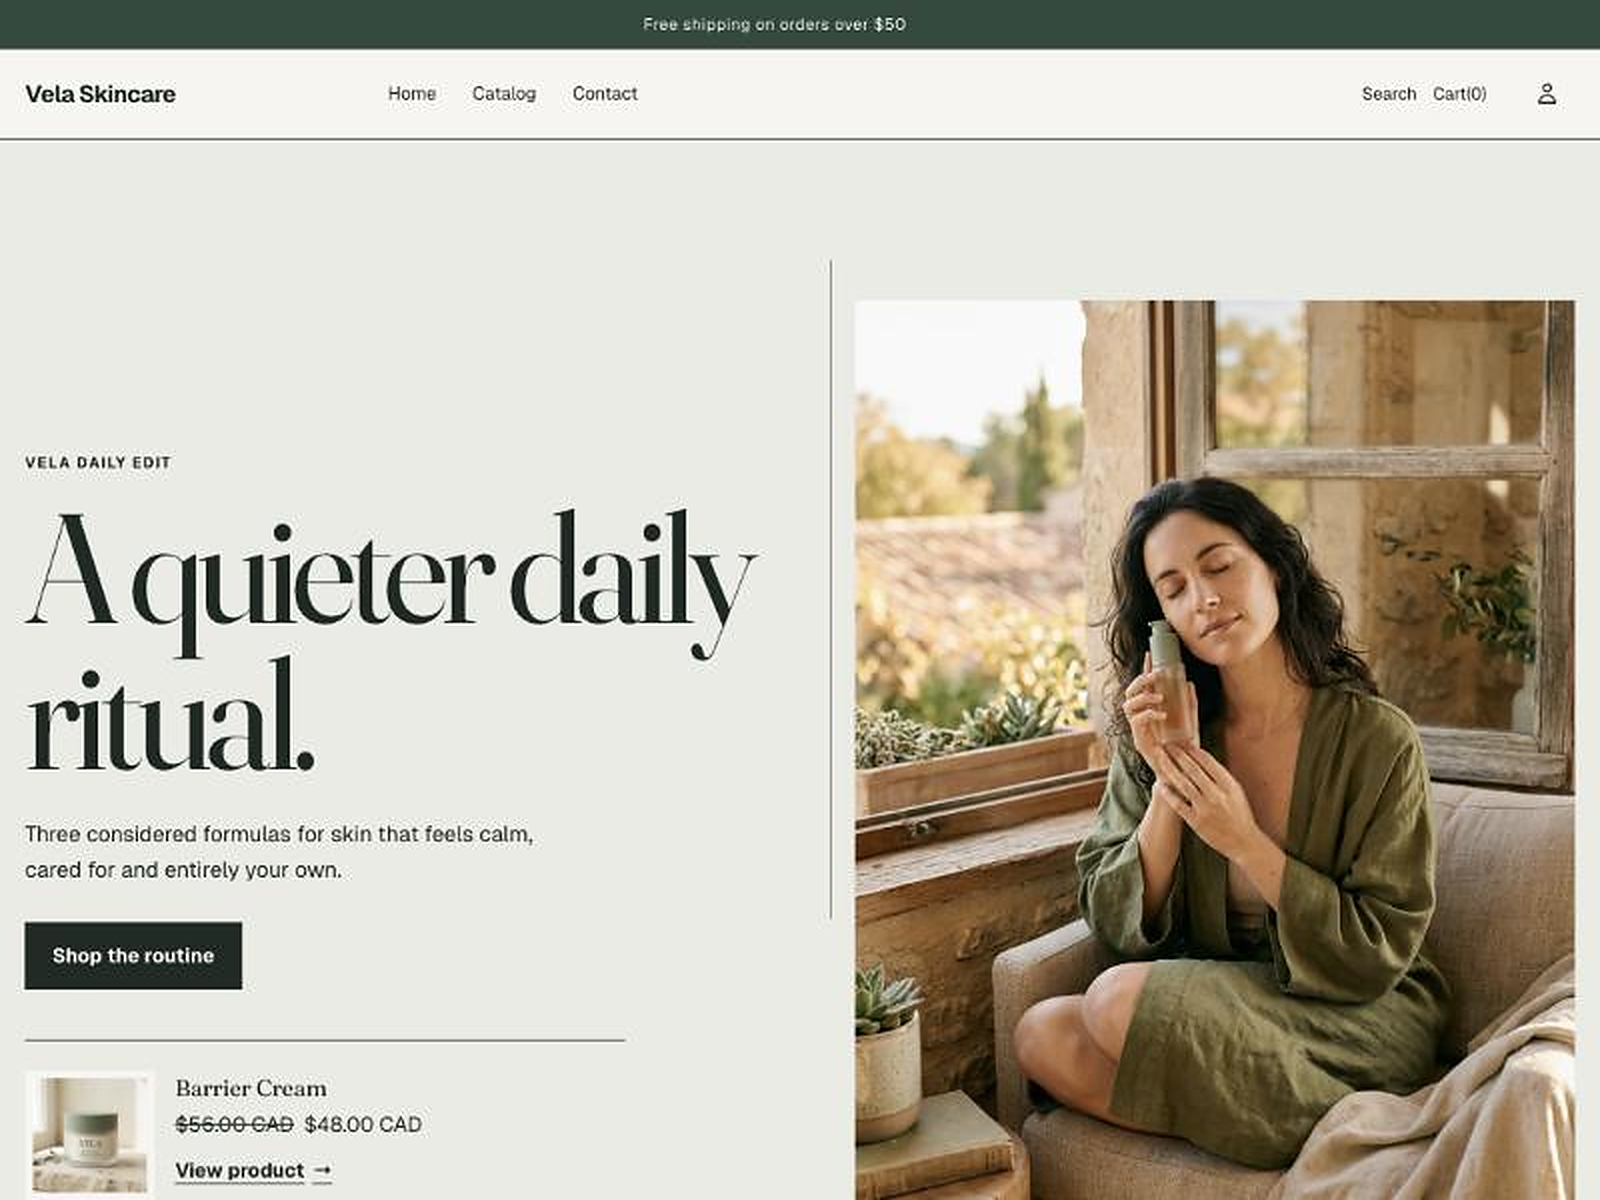
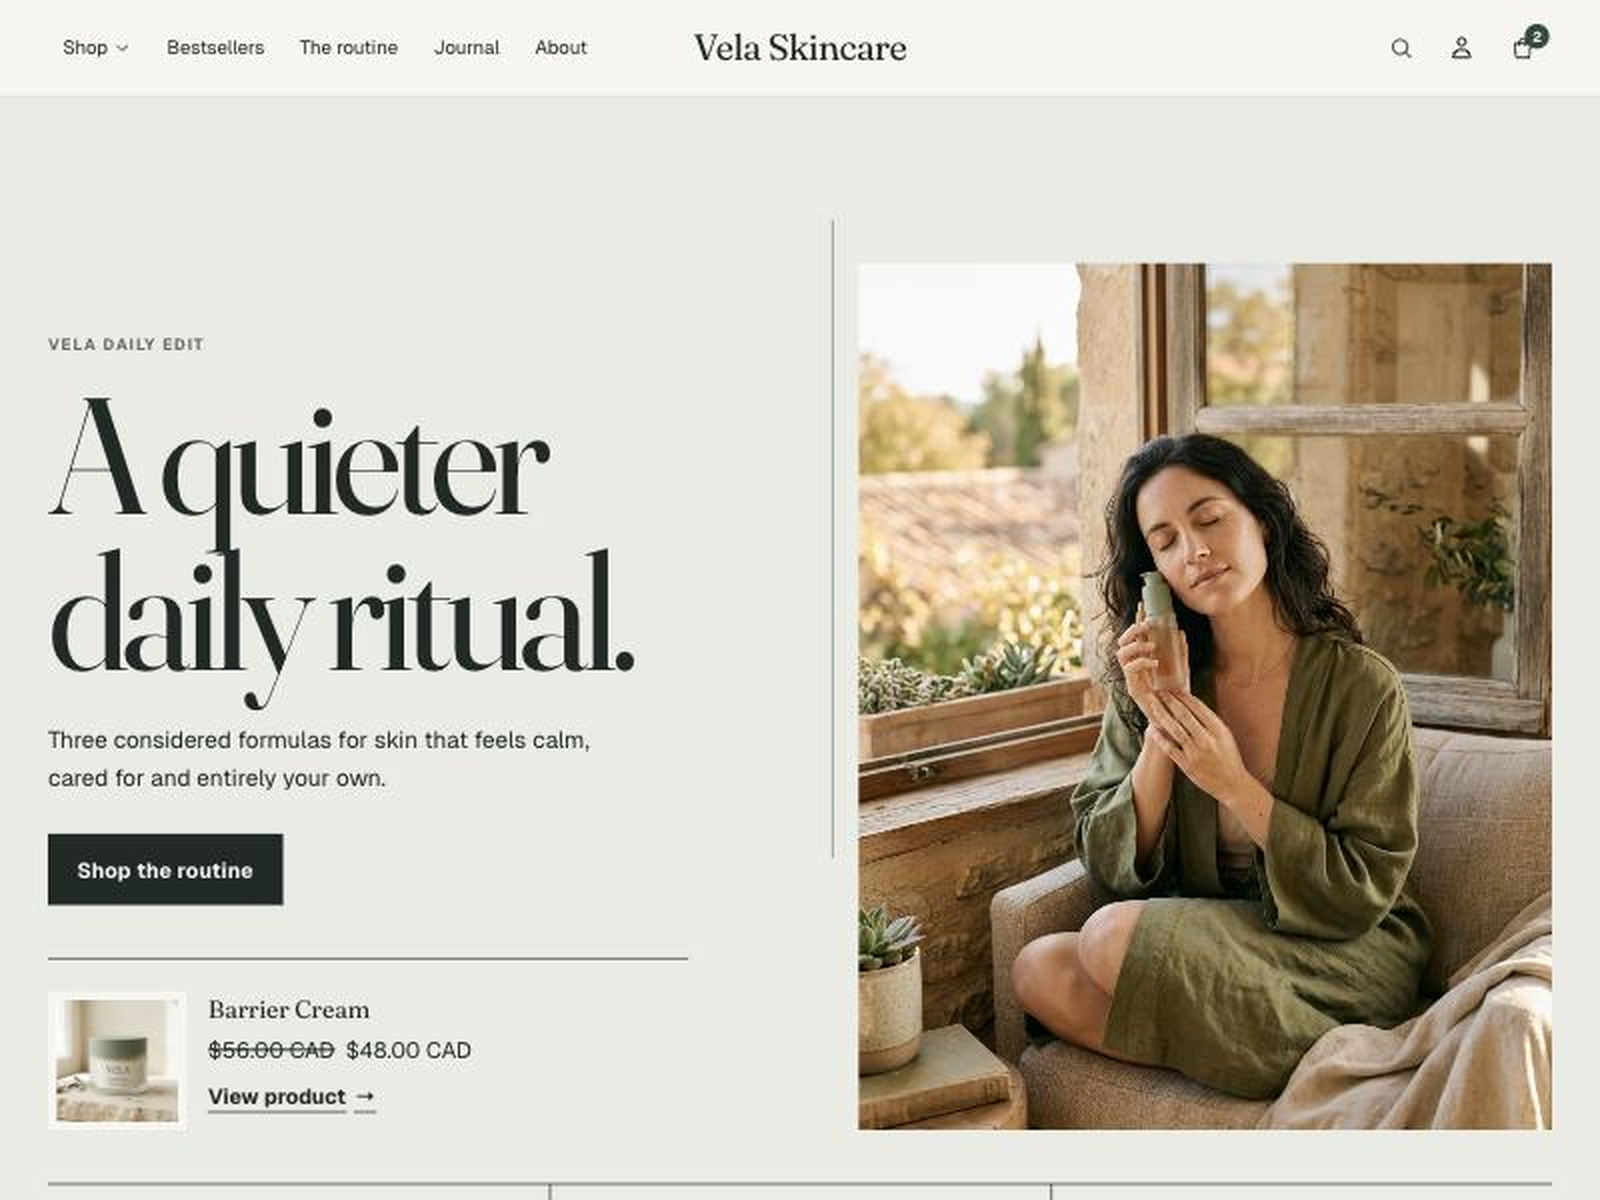
New Theme Store screenshots and highlights from the live demo store
Claude-Session: https://claude.ai/code/session_01UgywgSfF62nrbLwYrRccy3

diff --git a/docs/listing/vela-theme-store-listing.md b/docs/listing/vela-theme-store-listing.md
@@ -30,13 +30,13 @@ https://vela-skincare-qjtn7bvf.myshopify.com
 
 File: `vela-desktop-1000x1248.png`
 
-Alt text: Vela theme home page with a large serif headline, a lifestyle photo of a woman holding a skincare bottle, a featured product and three proof points
+Alt text: Vela theme home page with a slideshow showing a woman holding a skincare jar, a serif headline, a Shop bestsellers button and a scrolling message strip
 
 **Mobile screenshot**
 
 File: `vela-mobile-750x1334.png`
 
-Alt text: Vela theme home page on a phone with the lifestyle hero photo above the headline and a one row header
+Alt text: Vela theme home page on a phone with a square slideshow photo above the headline and a one row header
 
 ## Key highlights
 
@@ -64,13 +64,13 @@ Alt text: Vela Guided set section showing three routine steps with products and 
 
 **Highlight 3**
 
-File: `vela-highlight-3-image-details.png`
+File: `vela-highlight-3-slide-out-cart.png`
 
-Title (30 max): Image details
+Title (30 max): Slide out cart
 
-Description (140 max): Number the details on any photo. Shoppers open each one to learn more, and on phones they turn into a clean list.
+Description (140 max): Add to cart without leaving the page. A free shipping bar, quantity buttons and smart suggestions help lift order value.
 
-Alt text: Vela Edge crop layout with numbered detail markers on a close up of face cream
+Alt text: Vela slide out cart over a product page with a free shipping bar, two products and suggested add ons
 
 ## Features to select
 
